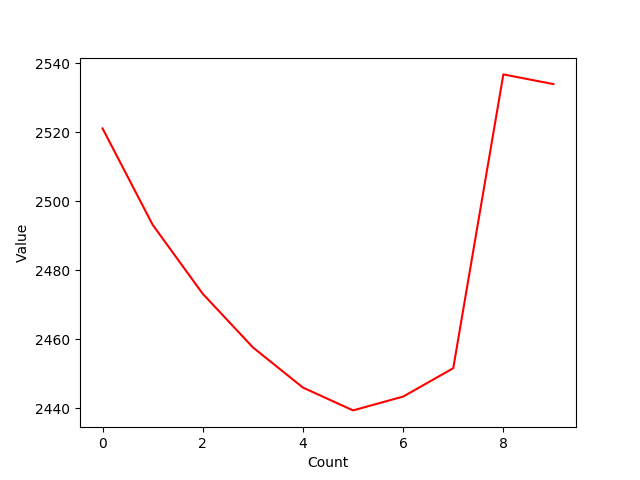
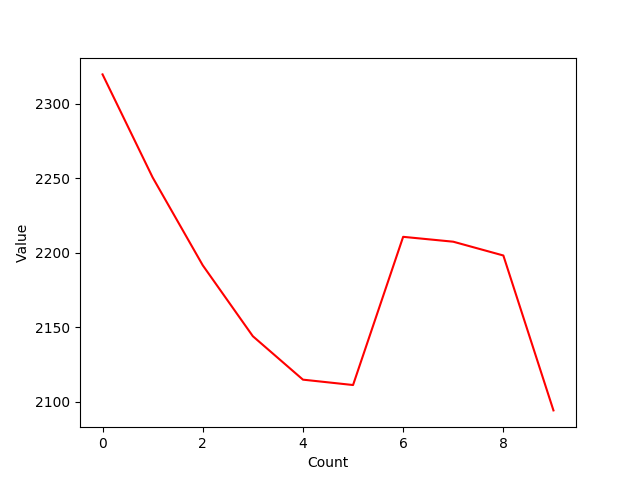
Automated Commision

diff --git a/prediction/sequential.py b/prediction/sequential.py
@@ -59,7 +59,7 @@ def regression_momentum_bias(timeseries, observation_range):
     bias *= slope
     return bias
 
-def sequential_prediction(model=None, stock_id=None, date=None, graphing=True, log=True, add_bias=True, itr=5):
+def sequential_prediction(model=None, stock_id=None, date=None, graphing=True, log=True, add_bias=True, bias_type='DEFAULT', itr=5):
     if model == None:
         model = select_model()
         print("Model = [", model, "]\n")
@@ -76,13 +76,16 @@ def sequential_prediction(model=None, stock_id=None, date=None, graphing=True, l
 
     bias = 0.00
     if add_bias == True:
-        bias_mode = int(input("Bias Type [0: Votality, 1: Regression] :: "))
-        # compute bias using momentum calculations with VIX index
-        if bias_mode == 1:
-            bias = regression_momentum_bias(timeseries, WEEK)
-        else:
+        if bias_type == 'DEFAULT': # 
             bias = vix_momentum_bias(timeseries, date, WEEK, MONTH)
-    print("BIAS = ", bias)
+        else:
+            bias_mode = int(input("Bias Type [0: Votality, 1: Regression] :: "))
+            # compute bias using momentum calculations with VIX index
+            if bias_mode == 1:
+                bias = regression_momentum_bias(timeseries, WEEK)
+            else:
+                bias = vix_momentum_bias(timeseries, date, WEEK, MONTH)
+    #print("BIAS = ", bias)
 
     for count in range(itr):
         trend = moving_average(timeseries, MONTH)
@@ -109,13 +112,12 @@ def sequential_prediction(model=None, stock_id=None, date=None, graphing=True, l
     if graphing == True:
         graph_title = "../Images/" + model + "_sequential_prediction_demo.png"
         graph(prediction_matrix, 'red', graph_title, False)
-    return stock, prediction_matrix
+    return prediction_matrix
 
 if __name__ == "__main__":
     os.system('clear')
-    stock, prediction = sequential_prediction(itr=10, add_bias=True)
+    prediction = sequential_prediction(itr=10, add_bias=True)
 
     print("\n\nEstimated Stock Matrix = ", prediction)
-    print("Estimated Change: ", prediction[len(prediction) - 1] - stock[len(stock) - 1], "\n\n")
 
     git_update()

diff --git a/prediction/rebalance.py b/prediction/rebalance.py
@@ -76,4 +76,15 @@ if __name__ == "__main__":
         dataset.append(timeseries)
         price.append(int(close_price))
 
+    # run sequential prediction before rebalancing
+    predictions = []
+    for timeseries in dataset:
+        stock, prediction_matrix = sequential_prediction(itr=10, add_bias=True, bias_type='REGRESSION')
+        if prediction_matrix[len(prediction_matrix) - 1] > stock[len(stock) - 1]: # predicted growth
+            predictions.append('POSITIVE')
+        else:
+            predictions.append('POSITIVE')
+    print(predictions)
+    
+
     git_update()

diff --git a/README.md b/README.md
@@ -19,11 +19,11 @@ chmod +x sequential.py
 ./sequential.py
 ~~~~~~~~~~~~~~~~~~~~
 
-Creating a rebalancing portfolio (AFTER ADDING CODE IN MAIN FUNC of portfolio.py)
+Creating a rebalancing portfolio (Forecast-based portfolio rebalancing)
 ~~~~~~~~~~~~~~~~~~~~
-cd rebalancing-portfolio
-chmod +x portfolio.py
-./portfolio.py
+cd prediction
+chmod +x rebalance.py
+./rebalance.py
 ~~~~~~~~~~~~~~~~~~~~
 
 Rebalancing a portfolio
